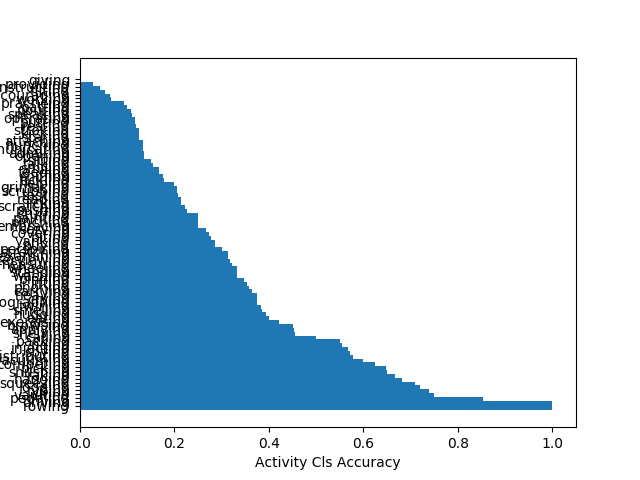
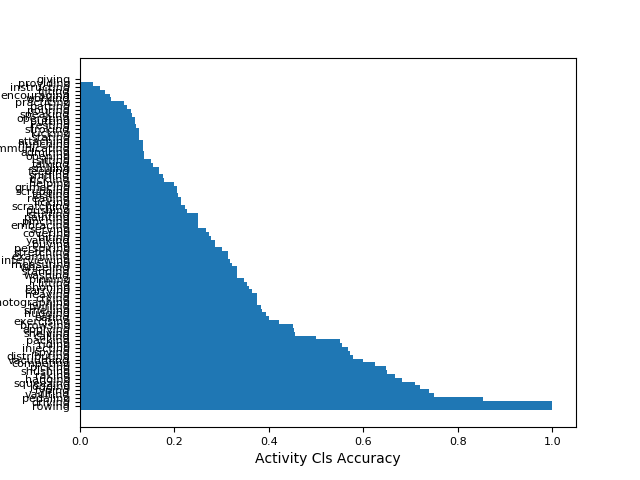
horizontal aggregate plot 2

diff --git a/lib/plots.py b/lib/plots.py
@@ -15,6 +15,8 @@ def plot_accuracy_per_activity(accuracies_per_activity, encoder):
     plt.rcdefaults()
     fig, ax = plt.subplots()
     ax.barh(shifted_indices, activity_acc_sorted[min_index:], height=2.5)
+    plt.tick_params(axis='both', which='major', labelsize=8)
+    plt.tick_params(axis='both', which='minor', labelsize=8)
     ax.set_yticks(shifted_indices)
     ax.set_yticklabels(activities_ordered[min_index:])
     ax.invert_yaxis()  # labels read top-to-bottom
